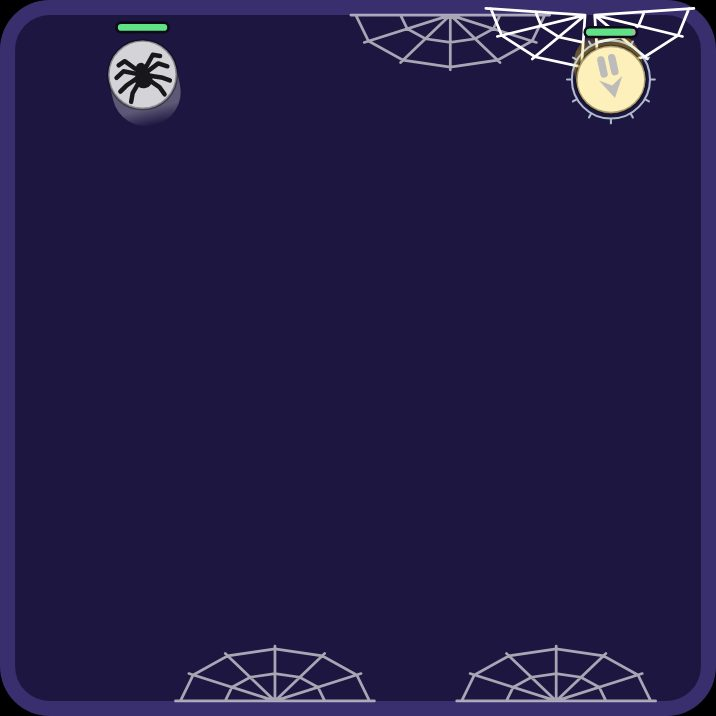
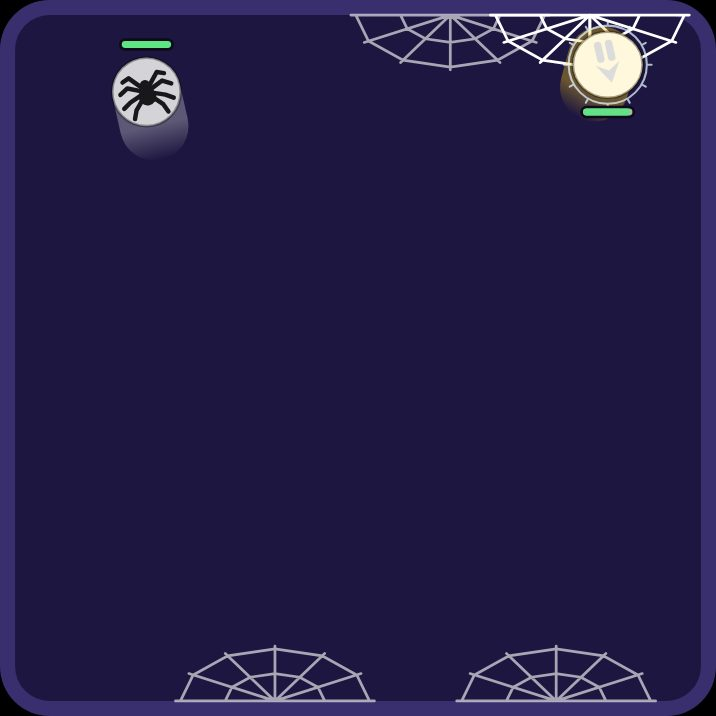
feat(render): a light trail over the last two frames, and ?smooth=off to compare
On the owner's iPhone in Low Power Mode balls were still hard to follow. The band behind a
moving ball on slow frames now runs along its path through the last two pictures (one stroked
path, fading to nothing), so the jumps between pictures are filled in and the eye has a line to
follow. ?smooth=off shows a fight without it on the same build, to compare on a phone.

Even frame pacing (playing each frame as the median beat) was tried and dropped: wherever frame
times are the display's own, as Safari's are, it made motion worse (speed jitter 0.6% -> 20.3%
at 30 fps in Chromium, 3.2% -> 24.7% at an uneven beat in WebKit). The frame-pacing test caught it.

Changed region(s): [[0.676, 0.0, 0.9832, 0.1844], [0.1536, 0.0307, 0.2765, 0.2151]]

diff --git a/src/render/motion-smear.ts b/src/render/motion-smear.ts
@@ -1,42 +1,48 @@
-// A smear behind each ball on slow frames (iPhone Low Power Mode holds Safari to 30 frames a
+// A light trail behind each ball on slow frames (iPhone Low Power Mode holds Safari to 30 frames a
 // second while the sim runs 60 ticks): at 30 a ball jumps about a quarter of its width between
-// pictures, which the eye sees as stutter even when the frames are perfectly even. A faint smear
-// over the stretch of path between the last picture and this one fills that in, as motion blur does
-// for film. Trailing only, so nothing is drawn ahead of the sim. Pure and render-only (ADR 0007,
-// 0063 addendum); drawn in draw-feel.ts.
+// pictures, which the eye sees as stutter even when the frames are perfectly even, and a ball that
+// jumps is harder to follow. A faint band over its path through the last two pictures fills the
+// jumps in and leaves a line for the eye, as motion blur does for film. Trailing only, so nothing
+// is drawn ahead of the sim. Pure and render-only (ADR 0007, 0063 addendum); drawn in draw-feel.ts.
 import type { Vec2, WorldState } from '../sim/types.ts';
 import { theme } from './theme.ts';
 
-/** One ball's smear: from where its edge was drawn last frame to where it is drawn now. */
+/** One ball's trail: where it was drawn, oldest first, ending where it is drawn now. */
 export interface Smear {
   readonly ballId: string;
-  readonly from: Vec2;
-  readonly to: Vec2;
+  readonly points: readonly Vec2[];
   readonly radius: number;
 }
 
 /**
- * The smears for a frame drawn `frameMs` of real time after `before` (the world drawn last frame,
- * blended as it was shown). None on frames faster than `theme.smearMinFrameMs` (60 Hz and faster
- * look as they always did), under reduced motion, before the first tick, after the match ends, for
- * a ball that stood still (a hit-stop) or jumped (a rewind, a split, a new match).
+ * The trails for a frame drawn `frameMs` of real time after the last. `history` is the worlds drawn
+ * on the frames before this one (blended, as shown), oldest first. None on frames faster than
+ * `theme.smearMinFrameMs` (60 Hz and faster look as they always did), under reduced motion, before
+ * the first tick or after the match ends. A trail stops at a step where the ball stood still (a
+ * hit-stop) or jumped (a rewind, a split, a new match).
  */
 export function smearsOf(
-  before: WorldState | undefined,
+  history: readonly WorldState[],
   drawn: WorldState,
   frameMs: number,
   reducedMotion: boolean,
 ): readonly Smear[] {
-  if (reducedMotion || before === undefined || frameMs < theme.smearMinFrameMs) return [];
+  if (reducedMotion || history.length === 0 || frameMs < theme.smearMinFrameMs) return [];
   if (drawn.match.status !== 'running' || drawn.tick <= 0) return [];
-  const was = new Map(before.balls.map((ball) => [ball.id, ball.position]));
   const smears: Smear[] = [];
   for (const ball of drawn.balls) {
-    const from = was.get(ball.id);
-    if (from === undefined || ball.health <= 0) continue;
-    const step = Math.hypot(ball.position.x - from.x, ball.position.y - from.y);
-    if (step < theme.smearMinStep || step > ball.radius * theme.smearMaxStepRadii) continue;
-    smears.push({ ballId: ball.id, from, to: ball.position, radius: ball.radius });
+    if (ball.health <= 0) continue;
+    const points: Vec2[] = [ball.position];
+    // Back through the frames before, newest first, while each step is a real move.
+    for (let index = history.length - 1; index >= 0; index -= 1) {
+      const from = history[index]?.balls.find((other) => other.id === ball.id)?.position;
+      const to = points[0];
+      if (from === undefined || to === undefined) break;
+      const step = Math.hypot(to.x - from.x, to.y - from.y);
+      if (step < theme.smearMinStep || step > ball.radius * theme.smearMaxStepRadii) break;
+      points.unshift(from);
+    }
+    if (points.length > 1) smears.push({ ballId: ball.id, points, radius: ball.radius });
   }
   return smears;
 }

diff --git a/src/render/motion-smear.test.ts b/src/render/motion-smear.test.ts
@@ -16,35 +16,51 @@ function at(redX: number, tick = 10): WorldState {
 
 const SLOW = 1000 / 30;
 const FAST = 1000 / 60;
+const pointsOf = (smears: ReturnType<typeof smearsOf>) => smears.map((smear) => smear.points);
 
 describe('smearsOf', () => {
-  it('smears a ball over its path since the last frame on a slow frame', () => {
-    expect(smearsOf(at(200), at(226), SLOW, false)).toStrictEqual([
-      { ballId: 'ball-0', from: { x: 200, y: 200 }, to: { x: 226, y: 200 }, radius: 50 },
+  it('trails a ball over its path through the last two frames on a slow frame', () => {
+    expect(smearsOf([at(174), at(200)], at(226), SLOW, false)).toStrictEqual([
+      {
+        ballId: 'ball-0',
+        points: [
+          { x: 174, y: 200 },
+          { x: 200, y: 200 },
+          { x: 226, y: 200 },
+        ],
+        radius: 50,
+      },
     ]);
   });
 
   it('draws nothing at 60 frames a second or faster: those look as they always did', () => {
-    expect(smearsOf(at(200), at(213), FAST, false)).toStrictEqual([]);
-    expect(smearsOf(at(200), at(213), theme.smearMinFrameMs - 0.1, false)).toStrictEqual([]);
+    expect(smearsOf([at(200)], at(213), FAST, false)).toStrictEqual([]);
+    expect(smearsOf([at(200)], at(213), theme.smearMinFrameMs - 0.1, false)).toStrictEqual([]);
   });
 
   it('draws nothing under reduced motion, on a first frame or once the match is over', () => {
-    expect(smearsOf(at(200), at(226), SLOW, true)).toStrictEqual([]);
-    expect(smearsOf(undefined, at(226), SLOW, false)).toStrictEqual([]);
+    expect(smearsOf([at(200)], at(226), SLOW, true)).toStrictEqual([]);
+    expect(smearsOf([], at(226), SLOW, false)).toStrictEqual([]);
     const over = at(226);
     const finished = { ...over, match: { ...over.match, status: 'finished' as const } };
-    expect(smearsOf(at(200), finished as WorldState, SLOW, false)).toStrictEqual([]);
+    expect(smearsOf([at(200)], finished as WorldState, SLOW, false)).toStrictEqual([]);
   });
 
-  it('leaves out a ball that stood still (a hit-stop) or jumped (a rewind, a new match)', () => {
-    expect(smearsOf(at(200), at(201), SLOW, false)).toStrictEqual([]);
-    expect(smearsOf(at(200), at(320), SLOW, false)).toStrictEqual([]);
+  it('stops at a step where the ball stood still (a hit-stop) or jumped (a rewind)', () => {
+    expect(smearsOf([at(200)], at(201), SLOW, false)).toStrictEqual([]);
+    expect(smearsOf([at(200)], at(320), SLOW, false)).toStrictEqual([]);
+    // Jumped two frames back, moved since: only the last step trails.
+    expect(pointsOf(smearsOf([at(40), at(200)], at(226), SLOW, false))).toStrictEqual([
+      [
+        { x: 200, y: 200 },
+        { x: 226, y: 200 },
+      ],
+    ]);
   });
 
   it('leaves out a knocked-out ball', () => {
     const now = at(226);
     const out = { ...now, balls: now.balls.map((ball) => ({ ...ball, health: 0 })) };
-    expect(smearsOf(at(200), out, SLOW, false)).toStrictEqual([]);
+    expect(smearsOf([at(200)], out, SLOW, false)).toStrictEqual([]);
   });
 });

diff --git a/src/render/draw-feel.ts b/src/render/draw-feel.ts
@@ -209,10 +209,10 @@ function drawPoisonRing(ctx: CanvasRenderingContext2D, ball: BallState, radius: 
 }
 
 /**
- * Each smear (motion-smear.ts) under its ball: a band the ball's width along the stretch of path
- * since the last frame, fading from nothing where its back edge was to `theme.smearAlpha` where its
- * back edge is now. A stroked line, so it draws no circle (the frame-pacing test counts the balls'
- * circles). A phased ball's smear is as see-through as the ball.
+ * Each trail (motion-smear.ts) under its ball: one band the ball's width along its path through the
+ * last frames, fading from nothing where its back edge was to `theme.smearAlpha` where its back
+ * edge is now. One stroked path, so a bend has no doubled joint, and no circle is drawn (the
+ * frame-pacing test counts the balls' circles). A phased ball's trail is as see-through as it is.
  */
 export function drawSmears(
   ctx: CanvasRenderingContext2D,
@@ -220,15 +220,23 @@ export function drawSmears(
   colorOf: (ballId: string) => string,
   alphaOf: (ballId: string) => number,
 ): void {
-  for (const { ballId, from, to, radius } of smears) {
-    const length = Math.hypot(to.x - from.x, to.y - from.y);
-    const back = { x: ((to.x - from.x) / length) * radius, y: ((to.y - from.y) / length) * radius };
+  for (const { ballId, points, radius } of smears) {
+    const first = points[0];
+    const last = points.at(-1);
+    if (first === undefined || last === undefined) continue;
+    const length = Math.hypot(last.x - first.x, last.y - first.y);
+    if (length === 0) continue;
+    // From each end's back edge along the way it went: the part of the band the ball doesn't cover.
+    const back = {
+      x: ((last.x - first.x) / length) * radius,
+      y: ((last.y - first.y) / length) * radius,
+    };
     const color = colorOf(ballId);
     const fade = ctx.createLinearGradient(
-      from.x - back.x,
-      from.y - back.y,
-      to.x - back.x,
-      to.y - back.y,
+      first.x - back.x,
+      first.y - back.y,
+      last.x - back.x,
+      last.y - back.y,
     );
     fade.addColorStop(0, withAlpha(color, 0));
     fade.addColorStop(1, withAlpha(color, theme.smearAlpha * alphaOf(ballId)));
@@ -236,9 +244,10 @@ export function drawSmears(
     ctx.strokeStyle = fade;
     ctx.lineWidth = radius * 2;
     ctx.lineCap = 'round';
+    ctx.lineJoin = 'round';
     ctx.beginPath();
-    ctx.moveTo(from.x, from.y);
-    ctx.lineTo(to.x, to.y);
+    ctx.moveTo(first.x, first.y);
+    for (const point of points.slice(1)) ctx.lineTo(point.x, point.y);
     ctx.stroke();
     ctx.restore();
   }

diff --git a/src/arena.ts b/src/arena.ts
@@ -51,6 +51,11 @@ export interface ArenaHost {
   readonly tips: Tips;
   /** What the match on screen is: the home demo, a Free play match or a series round (ADR 0037). */
   moment(): ReadyMoment;
+  /**
+   * The trail behind each ball on slow frames (ADR 0063 addendum); off only with `?smooth=off`, to
+   * compare on a phone.
+   */
+  readonly smooth: boolean;
 }
 
 /**
@@ -115,8 +120,8 @@ export function createArena(
   const reducedMotionQuery = window.matchMedia('(prefers-reduced-motion: reduce)');
   let playback: Playback = startPlayback(initial, theme.introMs);
   let lastFrameMs: number | undefined;
-  /** The world drawn last frame (blended), and this frame's real length: a slow frame smears. */
-  let lastDrawn: WorldState | undefined;
+  /** The worlds drawn on the last frames (blended), oldest first, and this frame's real length. */
+  let drawnBefore: WorldState[] = [];
   let drawingFrameMs = 0;
   let canvasView = { canvasPixels: 0, cssPixels: 0 };
   /**
@@ -161,8 +166,8 @@ export function createArena(
     const { world, effectMs: now } = playback;
     const reduced = reducedMotionQuery.matches;
     const drawn = interpolateWorld(playback.previous, world, interpolationAlpha(playback));
-    const smears = smearsOf(lastDrawn, drawn, drawingFrameMs, reduced);
-    lastDrawn = drawn;
+    const smears = host.smooth ? smearsOf(drawnBefore, drawn, drawingFrameMs, reduced) : [];
+    drawnBefore = [...drawnBefore, drawn].slice(-theme.smearFrames);
     drawWorld(ctx, drawn, lookup, canvasView, {
       flash: (ballId) => effects.flash(ballId, now),
       heal: (ballId) => effects.heal(ballId, now),
@@ -318,7 +323,7 @@ export function createArena(
       sourceChips.reset();
       played = 0;
       lastFrameMs = undefined;
-      lastDrawn = undefined;
+      drawnBefore = [];
       render();
     },
     showAt(world, elapsedMs) {

diff --git a/src/render/theme.ts b/src/render/theme.ts
@@ -415,12 +415,14 @@ export const theme = {
   healthLow: '#ff8a4c',
 
   /**
-   * The smear behind a ball on slow frames (motion-smear.ts, ADR 0063 addendum): only on frames at
-   * least this far apart (below about 42 a second: Low Power Mode's 30), for a step between
-   * `smearMinStep` world units and `smearMaxStepRadii` of the ball's radius (more is a jump: a
-   * rewind or a new match), fading to `smearAlpha` at the ball's back edge.
+   * The trail behind a ball on slow frames (motion-smear.ts, ADR 0063 addendum): only on frames at
+   * least this far apart (below about 42 a second: Low Power Mode's 30), over its path through
+   * the last `smearFrames` frames, each step between `smearMinStep` world units and
+   * `smearMaxStepRadii` of the ball's radius (more is a jump: a rewind or a new match), fading to
+   * `smearAlpha` at the ball's back edge.
    */
   smearMinFrameMs: 24,
+  smearFrames: 2,
   smearMinStep: 2,
   smearMaxStepRadii: 2,
   smearAlpha: 0.35,

diff --git a/src/main.ts b/src/main.ts
@@ -221,6 +221,9 @@ const arena = createArena(
     // holds the frame after its intro, so both balls show.
     isPaused: () =>
       isSetup() || (router.current() === 'home' && home.isWaiting() && arena.introOver()),
+    // The trail on slow frames; `?smooth=off` (read once, at load) shows a fight without it, to
+    // compare on a phone (ADR 0063 addendum).
+    smooth: new URL(window.location.href).searchParams.get('smooth') !== 'off',
     // A live fight plays at 1x on both screens, whatever the toggle says (ADR 0053).
     // A live fight plays at 1x, gently catching up with the server's moment (ADR 0053, 0063).
     speed: () =>

diff --git a/docs/decisions/0063-smooth-fights-at-any-frame-rate.md b/docs/decisions/0063-smooth-fights-at-any-frame-rate.md
@@ -3,7 +3,8 @@
 - Status: Accepted
 - Date: 2026-11-17
 - Amends: ADR 0007 (presentation time), ADR 0053 (live fights at 1x)
-- Addendum (2026-11-18): Low Power Mode measured; a smear on slow frames and the `?frames` meter
+- Addendum (2026-11-18): Low Power Mode measured; a trail on slow frames, `?smooth=off` and the
+  `?frames` meter
 
 ## Context
 
@@ -65,7 +66,7 @@ All of it is presentation (ADR 0007): no sim change, the same ticks, the golden 
 - Not measurable here: a real iPhone in Low Power Mode. If fights still look choppy there, the
   next suspect is drawing cost on a throttled phone (frames dropped below 30), not pacing.
 
-## Addendum: what Low Power Mode really costs, and a smear at 30 (2026-11-18)
+## Addendum: what Low Power Mode really costs, and a trail at 30 (2026-11-18)
 
 Fights still looked choppy on the owner's iPhone in Low Power Mode on the published build, after
 the decision above. Measured first, with no fix assumed (`scripts/low-power-frames.ts`,
@@ -92,19 +93,26 @@ are. What can't be measured here is a real iPhone's canvas drawing: `?frames` in
 shows the frame rate, the late frames and the worst gap on the phone itself (`frame-meter.ts`).
 A steady 30 with few late frames confirms the cap; many late frames would point at drawing cost.
 
-**Decision: a smear on slow frames** (`motion-smear.ts`). On a frame 24 ms or more after the last
-(below about 42 a second), each moving ball trails a band its own width over its path since the
-last picture, fading from nothing where its back edge was to 35% at its back edge now, as motion
-blur does for film. Trailing only, so nothing is drawn ahead of the sim; not for a ball that stood
-still (a hit-stop) or jumped (a rewind, a split, a new match); as see-through as a phased ball;
-off under reduced motion. At 50 a second and faster nothing changes, so desktops and 60/120 Hz
-phones look as before. Presentation only (ADR 0007): no sim change. Considered and not taken:
-snapping each frame's time to the median beat (Safari's frame times are already the display's,
-so there is nothing to smooth), and smearing shots and minions too (small, and drawn with their
-own trails or briefly; the balls are what the eye follows).
+**Decision: a light trail on slow frames** (`motion-smear.ts`). On a frame 24 ms or more after the
+last (below about 42 a second), each moving ball trails a band its own width along its path
+through the last two pictures, fading from nothing at its back edge two frames ago to 35% at its
+back edge now: the jumps are filled in and the eye has a line to follow, as motion blur does for
+film. One stroked path, so a bounce has no doubled joint. Trailing only, so nothing is drawn ahead
+of the sim; it stops at a step where the ball stood still (a hit-stop) or jumped (a rewind, a
+split, a new match); as see-through as a phased ball; off under reduced motion. At 50 a second and
+faster nothing changes, so desktops and 60/120 Hz phones look as before. `?smooth=off` in the URL
+shows a fight without it on the same build, to compare on a phone. Presentation only (ADR 0007):
+no sim change.
+
+**Tried and dropped: even frame pacing** (each frame played as the median beat, the difference
+paid back over later frames, so no time is lost). It makes motion worse wherever frame times are
+the real display times: speed jitter at 30 fps went from 0.6% to 20.3% (Chromium) and at the
+uneven beat from 3.2% to 24.7% (WebKit). Safari stamps each frame with the display's own time, so
+there is nothing to even out. Also not taken: trailing shots and minions (small, and the balls are
+what the eye follows).
 
 **Kept from coming back:** `frame-pacing.touch.browser.test.ts` now also times each frame's work
 (p95 under half a 60 Hz beat; about 0.3-1 ms today) and checks that frames 26 ms or more apart
-draw a smear and frames 20 ms or less never do, judged per frame from its real gap (WebKit's
-harness timers run near 27 a second at the 60 fps beat). A/B in WebKit, the smear costs no
-measurable frames.
+draw a trail and frames 20 ms or less never do, judged per frame from its real gap (WebKit's
+harness timers run near 27 a second at the 60 fps beat). A/B in WebKit, the trail costs no
+measurable frames (1.4-1.6% late with it, 1.5-2.0% without).
